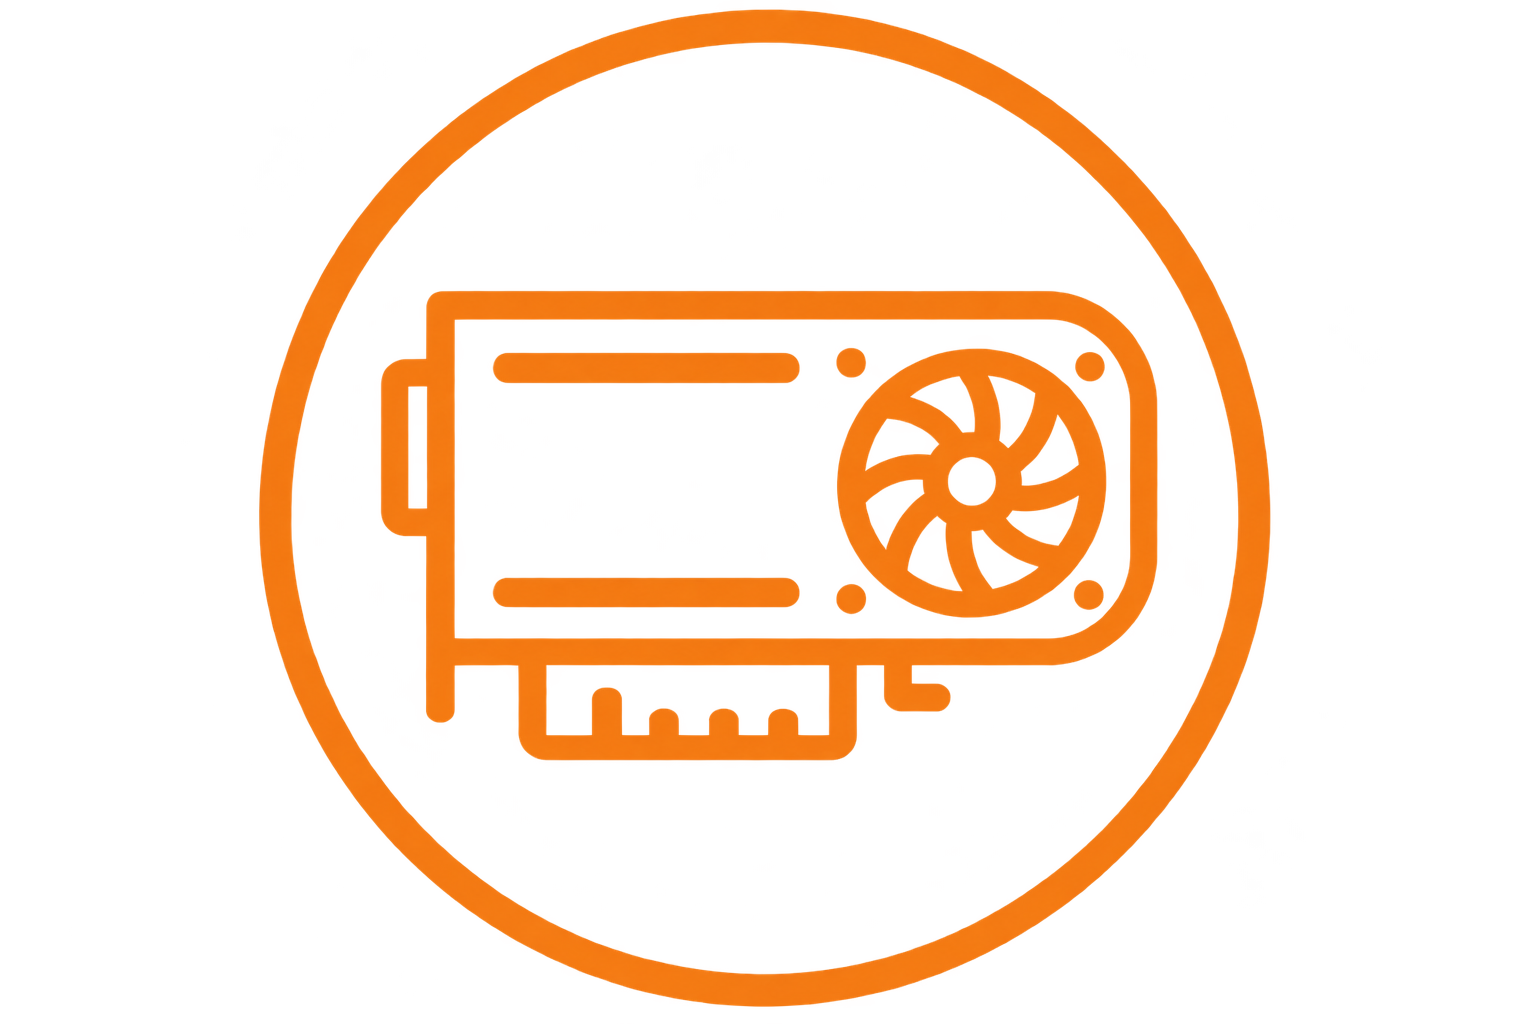
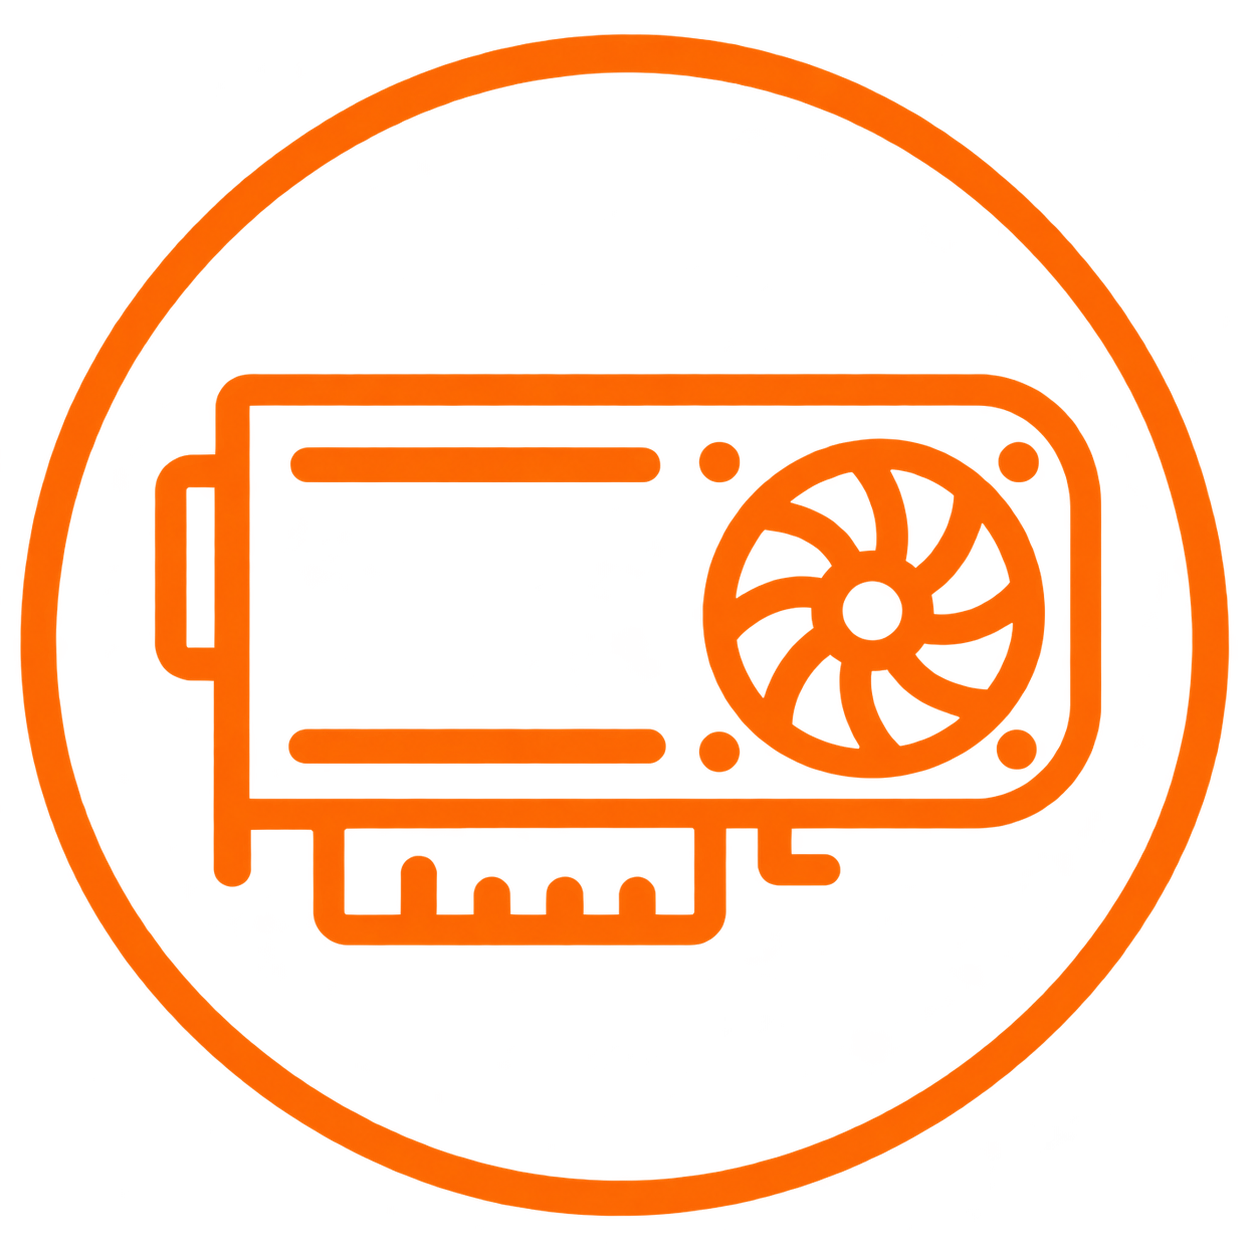
style: arreglos de estilos y arreglo de iconos en categorías

Changed region(s): [[0.0, 0.0, 0.9952, 1.0]]

diff --git a/AXON_PC/tienda/templates/tienda/tienda.html b/AXON_PC/tienda/templates/tienda/tienda.html
@@ -1,11 +1,11 @@
 {% extends 'base.html' %}
 {% load static %}
 
-{% block title %}Axon PC{% endblock %}
+{% block title %}Axon PC - Tienda{% endblock %}
 
 {% block content %}
 
-<div class="hero">
+<!--<div class="hero">
 
     <div class="izq">
         <h1 class="main-title">Armá tu PC perfecta</h1>
@@ -26,7 +26,7 @@
         <div class="bg-color"></div>
     </div>
 
-</div>
+</div>-->
 
 <!-- SECCION CATEGORIA -->
 
@@ -86,8 +86,8 @@
         
         <a href="">
             <div class="box-cat">
-                <img src="" alt="Gabinete">
-                <h3>gabinete</h3>
+                <img class="icon-cat" src="{% static 'img/fuente.png'%}" alt="Fuente">
+                <h3>fuente</h3>
             </div>
         </a>
         
@@ -97,11 +97,32 @@
                 <h3>cooler</h3>
             </div>
         </a>
+
+        <a href="">
+            <div class="box-cat">
+                <img src="" alt="Gabinete">
+                <h3>gabinete</h3>
+            </div>
+        </a>
+
+        <a href="">
+            <div class="box-cat">
+                <img src="" alt="Pantallas">
+                <h3>pantallas</h3>
+            </div>
+        </a>
         
         <a href="">
             <div class="box-cat">
                 <img class="icon-cat" src="{% static 'img/accesorios.png'%}" alt="Preféricos">
                 <h3>accesorios</h3>
+            </div>
+        </a>
+
+        <a href="">
+            <div class="box-cat">
+                <img src="" alt="Tienda">
+                <h3>tienda</h3>
             </div>
         </a>
         
@@ -112,10 +133,10 @@
 
 <!-------- SECCION TIENDA --------->
 
-    <div class="cat-title">
-        <h2 class="bg-body bg-text">TIENDA</h2>
-        <div class="title-line"></div>
-    </div>
+        <div class="cat-title">
+            <h1 class="main-title" style="text-align: center; font-size: 76px;">TIENDA</h1>
+            <div class="title-line"></div>
+        </div>
 
     <seccion class="comp-ven">
 

diff --git a/AXON_PC/home/templates/home/index.html b/AXON_PC/home/templates/home/index.html
@@ -31,7 +31,7 @@
 
 
     <div class="cat-title">
-        <h2 class="text-dark">Categorias</h2>
+        <h2 class="bg-body bg-text">Categorias</h2>
         <div class="title-line"></div>
     </div>
     
@@ -85,8 +85,8 @@
         
         <a href="">
             <div class="box-cat">
-                <img src="" alt="Gabinete">
-                <h3>gabinete</h3>
+                <img class="icon-cat" src="{% static 'img/fuente.png'%}" alt="Fuente">
+                <h3>fuente</h3>
             </div>
         </a>
         
@@ -96,11 +96,32 @@
                 <h3>cooler</h3>
             </div>
         </a>
+
+        <a href="">
+            <div class="box-cat">
+                <img src="" alt="Gabinete">
+                <h3>gabinete</h3>
+            </div>
+        </a>
+
+        <a href="">
+            <div class="box-cat">
+                <img src="" alt="Pantallas">
+                <h3>pantallas</h3>
+            </div>
+        </a>
         
         <a href="">
             <div class="box-cat">
                 <img class="icon-cat" src="{% static 'img/accesorios.png'%}" alt="Preféricos">
                 <h3>accesorios</h3>
+            </div>
+        </a>
+
+        <a href="">
+            <div class="box-cat">
+                <img src="" alt="Tienda">
+                <h3>tienda</h3>
             </div>
         </a>
         
@@ -112,7 +133,7 @@
 <!-- SECCION COMPONENTES MAS COMPRADOS -->
 
     <div class="cat-title">
-        <h2 class="text-dark">Componentes más vendidos</h2>
+        <h2 class="bg-body bg-text">Componentes más vendidos</h2>
         <div class="title-line"></div>
     </div>
 
@@ -235,7 +256,7 @@
     <!-- SECCION ULTIMOS COMPONENTES -->
 
     <div class="cat-title">
-        <h2 class="text-dark">Últimos componentes</h2>
+        <h2 class="bg-body bg-text">Últimos componentes</h2>
         <div class="title-line"></div>
     </div>
 

diff --git a/AXON_PC/home/templates/home/nosotros.html b/AXON_PC/home/templates/home/nosotros.html
@@ -11,7 +11,7 @@
         </div>
         
         <div class="nos-txt">
-            <h2>SOBRE MI</h2>
+            <h1 class="main-title" style="text-align: center; font-size: 66px;">SOBRE MI</h1>
             <p>
                 Soy <b>José Gbariel González</b>, estudiante autodidacta de desarrollo web, buscando oportunidades laborales. En este proyecto, a diferencia del anterior (<a href="https://theglitchzone.pythonanywhere.com/">The Glitch Zone</a>),
                 quise implementar nuevas tecnologías para mi, reemplazando el SQLite3 por MySQL, por ejemplo, y seguir practicando lo básico de Javascript, mejorar mi diseño responsivo desde un principio,
@@ -23,7 +23,7 @@
     </div>
 
     <div class="cat-title">
-        <h2 class="text-dark">TECNOLOGÍAS USADAS</h2>
+        <h2 class="bg-body bg-text">TECNOLOGÍAS USADAS</h2>
         <div class="title-line"></div>
     
 
@@ -73,7 +73,7 @@
     </div>
 
         <div class="cat-title">
-            <h2 class="text-dark">PROYECTO</h2>
+            <h2 class="bg-body bg-text">PROYECTO</h2>
             <div class="title-line"></div>
         </div>
 

diff --git a/AXON_PC/static/css/style.css b/AXON_PC/static/css/style.css
@@ -574,7 +574,7 @@ p {
     height: 130px;
     outline: none;
     background: transparent;
-    border: 3px solid var(--color-bordes);
+    border: 1px solid var(--color-bordes);
     border-radius: 12px;
     letter-spacing: 1px;
     transition: .3s;
